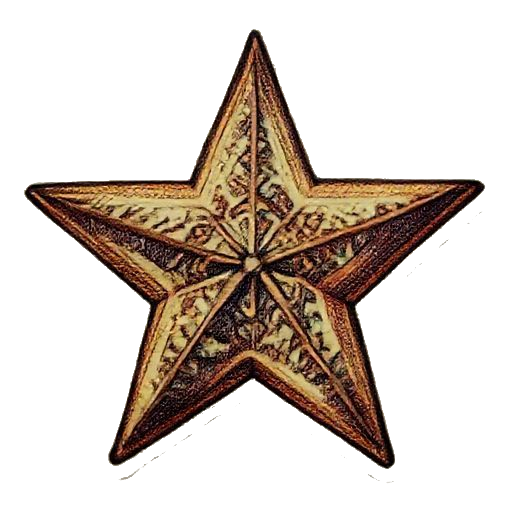
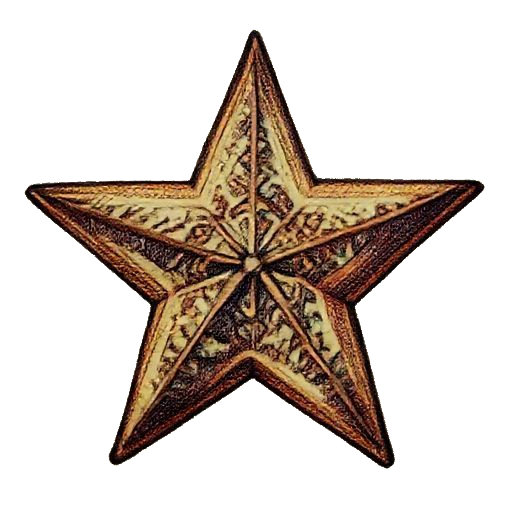
Fix sprite backgrounds (v4) and add Rubik font for Hebrew
Sprites: much more aggressive bg removal with flood-fill threshold 130,
6px dilation, isolated remnant cleanup, and island removal (connected
component analysis removes disconnected fragments).

Font: add Rubik from Google Fonts as fallback for Fredoka One.
Rubik natively supports Hebrew with a rounded, modern look.

Changed region(s): [[0.2188, 0.9062, 0.2812, 0.9375]]

diff --git a/css/style.css b/css/style.css
@@ -5,7 +5,7 @@
 html, body {
     width: 100%; height: 100%; overflow: hidden;
     background: #050810;
-    font-family: 'Inter', -apple-system, BlinkMacSystemFont, sans-serif;
+    font-family: 'Rubik', 'Inter', -apple-system, BlinkMacSystemFont, sans-serif;
     touch-action: none;
     user-select: none;
     -webkit-user-select: none;
@@ -81,7 +81,7 @@ html, body {
 }
 .loading-wrap { text-align: center; width: 320px; }
 .loading-logo {
-    font-family: 'Fredoka One', sans-serif;
+    font-family: 'Fredoka One', 'Rubik', sans-serif;
     font-size: 40px;
     background: linear-gradient(135deg, #818cf8 0%, #c084fc 40%, #f472b6 70%, #fbbf24 100%);
     background-size: 200% 200%;
@@ -185,7 +185,7 @@ html, body {
 }
 
 .menu-title {
-    font-family: 'Fredoka One', sans-serif;
+    font-family: 'Fredoka One', 'Rubik', sans-serif;
     font-size: 52px; line-height: 1.1;
     background: linear-gradient(135deg, #818cf8 0%, #c084fc 35%, #f472b6 65%, #fbbf24 100%);
     background-size: 200% 200%;
@@ -316,7 +316,7 @@ html, body {
 .hud-right { text-align: right; }
 
 .hud-score {
-    font-family: 'Fredoka One', sans-serif;
+    font-family: 'Fredoka One', 'Rubik', sans-serif;
     font-size: 40px; color: #fff;
     text-shadow: 0 0 20px rgba(99,102,241,0.6), 0 2px 4px rgba(0,0,0,0.3);
     transition: transform 0.15s ease;
@@ -353,7 +353,7 @@ html, body {
     border: 1px solid rgba(99,102,241,0.15);
 }
 .hud-timer {
-    font-family: 'Fredoka One', sans-serif;
+    font-family: 'Fredoka One', 'Rubik', sans-serif;
     font-size: 24px; color: #fbbf24;
     text-shadow: 0 0 12px rgba(251,191,36,0.4);
 }
@@ -422,7 +422,7 @@ html, body {
     text-transform: uppercase;
 }
 .duo-score {
-    font-family: 'Fredoka One', sans-serif;
+    font-family: 'Fredoka One', 'Rubik', sans-serif;
     font-size: 36px; color: #fff;
 }
 .p1 .duo-score { color: #f87171; text-shadow: 0 0 12px rgba(239,68,68,0.3); }
@@ -450,7 +450,7 @@ html, body {
     width: 140px; height: 140px;
     border-radius: 50%;
     border: 4px solid;
-    font-family: 'Fredoka One', sans-serif;
+    font-family: 'Fredoka One', 'Rubik', sans-serif;
     cursor: pointer;
     display: flex; flex-direction: column;
     align-items: center; justify-content: center;
@@ -520,7 +520,7 @@ html, body {
 }
 
 .buzz-vs {
-    font-family: 'Fredoka One', sans-serif;
+    font-family: 'Fredoka One', 'Rubik', sans-serif;
     font-size: 30px;
     color: rgba(255,255,255,0.2);
     margin: 0 24px;
@@ -564,14 +564,14 @@ html, body {
 }
 
 .go-title {
-    font-family: 'Fredoka One', sans-serif;
+    font-family: 'Fredoka One', 'Rubik', sans-serif;
     font-size: 38px; color: #fff;
     margin-bottom: 16px;
     text-shadow: 0 2px 24px rgba(99,102,241,0.5);
     letter-spacing: 1px;
 }
 .go-score {
-    font-family: 'Fredoka One', sans-serif;
+    font-family: 'Fredoka One', 'Rubik', sans-serif;
     font-size: 72px;
     background: linear-gradient(135deg, #fbbf24 0%, #f97316 50%, #ef4444 100%);
     -webkit-background-clip: text; -webkit-text-fill-color: transparent;
@@ -650,7 +650,7 @@ html, body {
 }
 
 .instructions-title {
-    font-family: 'Fredoka One', sans-serif;
+    font-family: 'Fredoka One', 'Rubik', sans-serif;
     font-size: 26px;
     background: linear-gradient(135deg, #818cf8, #c084fc, #f472b6);
     -webkit-background-clip: text; -webkit-text-fill-color: transparent;

diff --git a/js/game.js b/js/game.js
@@ -139,7 +139,7 @@ class FloatingText {
         ctx.globalAlpha = p;
         ctx.translate(this.x, this.y);
         ctx.scale(scale, scale);
-        ctx.font = 'bold 34px "Fredoka One", Arial';
+        ctx.font = 'bold 34px "Fredoka One", "Rubik", Arial';
         ctx.fillStyle = this.color;
         ctx.textAlign = 'center';
         ctx.textBaseline = 'middle';
@@ -934,7 +934,7 @@ export class Game {
             ctx.fillStyle = ringGrad;
             ctx.fillRect(0, 0, GAME_WIDTH, GAME_HEIGHT);
 
-            ctx.font = 'bold 64px "Fredoka One", Arial';
+            ctx.font = 'bold 64px "Fredoka One", "Rubik", Arial';
             ctx.fillStyle = '#fff';
             ctx.textAlign = 'center';
             ctx.textBaseline = 'middle';
@@ -998,7 +998,7 @@ export class Game {
 
         if (isRTL) {
             // RTL: shape name on right, image in middle, FIND label on left
-            ctx.font = 'bold 22px "Fredoka One", Arial';
+            ctx.font = 'bold 22px "Fredoka One", "Rubik", Arial';
             ctx.fillStyle = 'rgba(129, 140, 248, 0.85)';
             ctx.textAlign = 'right';
             ctx.textBaseline = 'middle';
@@ -1016,7 +1016,7 @@ export class Game {
                 ctx.drawImage(img, tx - size / 2, ty - size / 2, size, size);
                 ctx.shadowBlur = 0;
 
-                ctx.font = 'bold 24px "Fredoka One", Arial';
+                ctx.font = 'bold 24px "Fredoka One", "Rubik", Arial';
                 ctx.fillStyle = '#E2E8F0';
                 ctx.textAlign = 'right';
                 ctx.textBaseline = 'middle';
@@ -1024,7 +1024,7 @@ export class Game {
             }
         } else {
             // LTR layout (original)
-            ctx.font = 'bold 22px "Fredoka One", Arial';
+            ctx.font = 'bold 22px "Fredoka One", "Rubik", Arial';
             ctx.fillStyle = 'rgba(129, 140, 248, 0.85)';
             ctx.textAlign = 'left';
             ctx.textBaseline = 'middle';
@@ -1042,7 +1042,7 @@ export class Game {
                 ctx.drawImage(img, tx - size / 2, ty - size / 2, size, size);
                 ctx.shadowBlur = 0;
 
-                ctx.font = 'bold 24px "Fredoka One", Arial';
+                ctx.font = 'bold 24px "Fredoka One", "Rubik", Arial';
                 ctx.fillStyle = '#E2E8F0';
                 ctx.textAlign = 'left';
                 ctx.textBaseline = 'middle';
@@ -1072,7 +1072,7 @@ export class Game {
         ctx.fillRect(0, GAME_HEIGHT - 8, GAME_WIDTH * pct, 8);
 
         // "P1/P2 is looking!" text
-        ctx.font = 'bold 20px "Fredoka One", Arial';
+        ctx.font = 'bold 20px "Fredoka One", "Rubik", Arial';
         ctx.fillStyle = textColor;
         ctx.textAlign = 'center';
         ctx.textBaseline = 'top';

diff --git a/index.html b/index.html
@@ -8,7 +8,7 @@
     <meta name="theme-color" content="#0f172a">
     <title>Spot the Shape</title>
     <link rel="preconnect" href="https://fonts.googleapis.com">
-    <link href="https://fonts.googleapis.com/css2?family=Fredoka+One&family=Inter:wght@400;600;700;900&display=swap" rel="stylesheet">
+    <link href="https://fonts.googleapis.com/css2?family=Fredoka+One&family=Inter:wght@400;600;700;900&family=Rubik:wght@400;500;600;700;800;900&display=swap" rel="stylesheet">
     <link rel="stylesheet" href="css/style.css">
 </head>
 <body>
